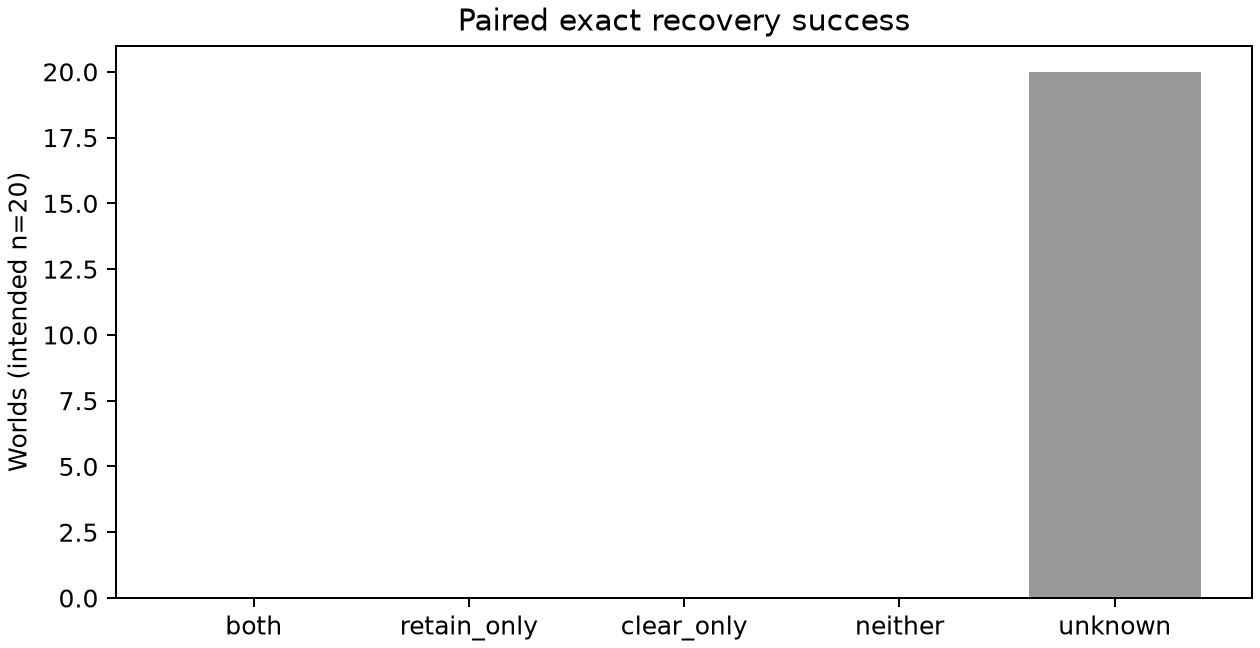
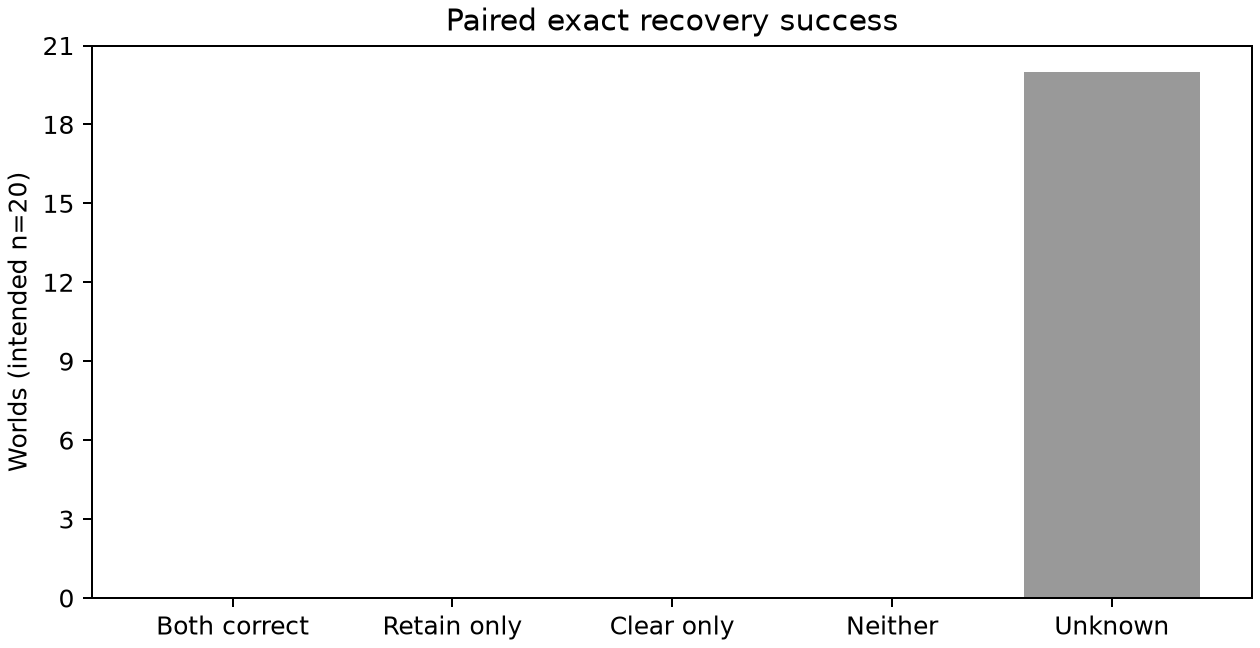
Record completed I-01 implementation handoff and focused evidence

diff --git a/docs/IMPLEMENTATION_PLAN.md b/docs/IMPLEMENTATION_PLAN.md
@@ -13,10 +13,10 @@ handoffs below remain historical and independently scoped.
 Python completion now implements all I-01 scientific, inference, durable stage,
 accounting, reporting, archive and restore responsibilities in `recovery/i01/`.
 The [operator runbook](I01_KAGGLE.md) documents finite APIs and exact recovery.
-Five focused scripted integration checks and the packaged scripted self-check
+Seven focused scripted integration checks and the packaged scripted self-check
 passed on Windows Python 3.11.9; these are implementation evidence only.
-The staged notebook/release is the next deliverable, followed by operator-only
-Kaggle validation. No old automatic course execution policy is inherited.
+The staged notebook/release is delivered, with operator-only Kaggle validation
+remaining. No old automatic course execution policy is inherited.
 
 The staged notebook and small online source attachment are now implemented:
 `notebooks/i01_course_kaggle.ipynb` and `dist/i01-course/` (reproducible builders).

diff --git a/docs/validation/i01-implementation.md b/docs/validation/i01-implementation.md
@@ -92,3 +92,11 @@ was fixed; `Operator.run` now routes through the retained client/controller.
 The seventh focused integration case exercises that actual path through reopen,
 status and snapshot with zero model calls. Snapshot creates one fresh archive,
 and controller close snapshots after recording model termination.
+
+Final seven-case run: **7 passed, zero failures/errors, 36.048 seconds**;
+receipt `notebooks/validation/i01-development/integration-checks.json`.
+The source bootstrap was exercised with the exact ZIP, a repeated cell and an
+expanded directory using a display stub; scientific actions remain absent.
+Installed initialization preserves every source-release member inside the run's
+portable source directory. Full synthetic envelope text and native IDs are both
+archived. Final archive/native capacity/model checks remain Kaggle-only.

diff --git a/docs/plans/i01-course-implementation-wbs.md b/docs/plans/i01-course-implementation-wbs.md
@@ -668,6 +668,11 @@ Milestone commits: `6875aae` adoption; `914036c` native study core;
 `e71f99e` integration/recovery accounting. The notebook/release checkpoint follows
 these Python interfaces and uses the same library, rather than notebook science.
 
+Later checkpoints: `a1a429d` staged notebook; `375e811` real operator dispatch and
+shutdown snapshots; `a476a6e` complete source preservation/bootstrap review;
+`ac93bd3` full synthetic-envelope prompt audit. Final focused integration has
+seven passing cases in 36.048 seconds, with zero model attempts.
+
 Delivered paths: `recovery/i01/`, `scripts/i01_course.py`,
 `scripts/build_i01_course_notebook.py`, `scripts/build_i01_course_release.py`,
 `scripts/verify_i01_course_release.py`, `configs/i01-course.json`,
